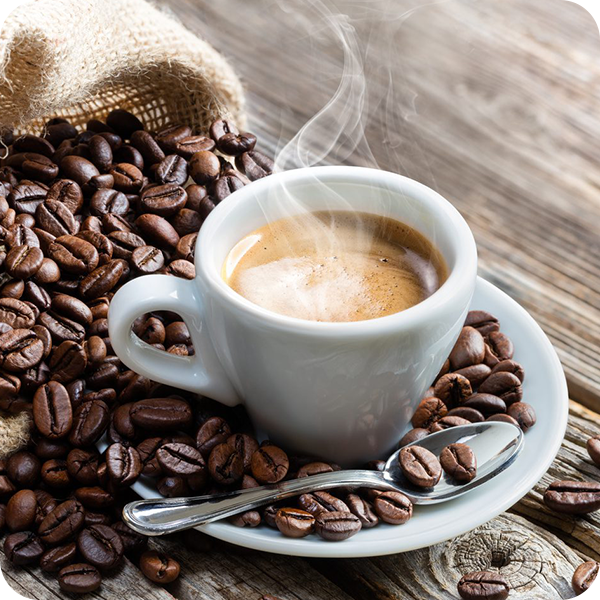
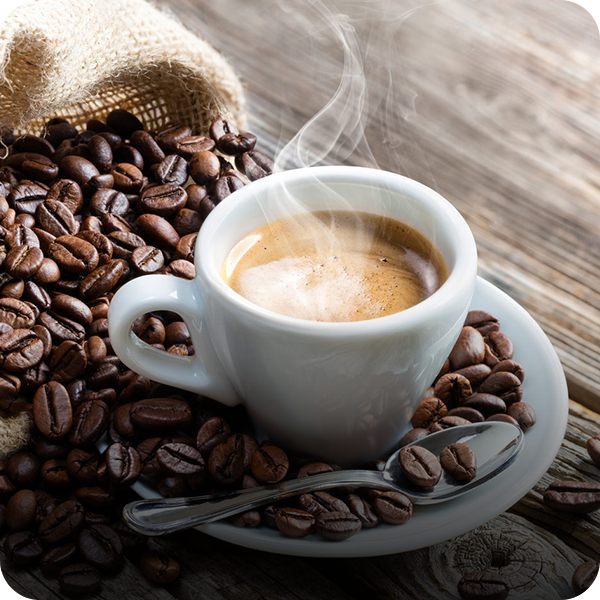
Home

Changed region(s): [[0.0, 0.57, 1.0, 1.0], [0.24, 0.6, 0.36, 0.66], [0.0, 0.63, 0.03, 0.66]]

diff --git a/src/components/MenuButton.js b/src/components/MenuButton.js
@@ -17,9 +17,9 @@ export default class MenuButton extends Component {
                     style={styles.button}
                     onPress={this.props.onPress}>
                     <ImageBackground source={this.props.itemImage} style={styles.image}>
-                        <View style={styles.gradient}>
+
                             <Text style={styles.text}> {this.props.name} </Text>
-                        </View>
+
 
                     </ImageBackground>
                 </TouchableOpacity>
@@ -42,15 +42,15 @@ const styles = StyleSheet.create({
     image: {
         height: '100%',
         width: '100%',
-        backgroundColor: 'transparent'
+        backgroundColor: 'transparent',
+        alignItems: 'center',
+        justifyContent: 'flex-end'
     },
     text: {
         backgroundColor: 'transparent',
         color: '#fff',
         fontSize: 20,
-        textAlign: 'center',
+        paddingBottom: 5
     },
-    gradient:{
-        alignItems: 'flex-bottom'
-    }
+
 })

diff --git a/src/Screens/Home.js b/src/Screens/Home.js
@@ -17,7 +17,7 @@ export default class Home extends React.Component {
     render() {
         return (
             <ImageBackground
-                source = {require('../Img/2.png')}
+                source = {require('../Img/bg2.jpg')}
                 style={styles.container}>
 
                 <View style={styles.overlayContainer}>
